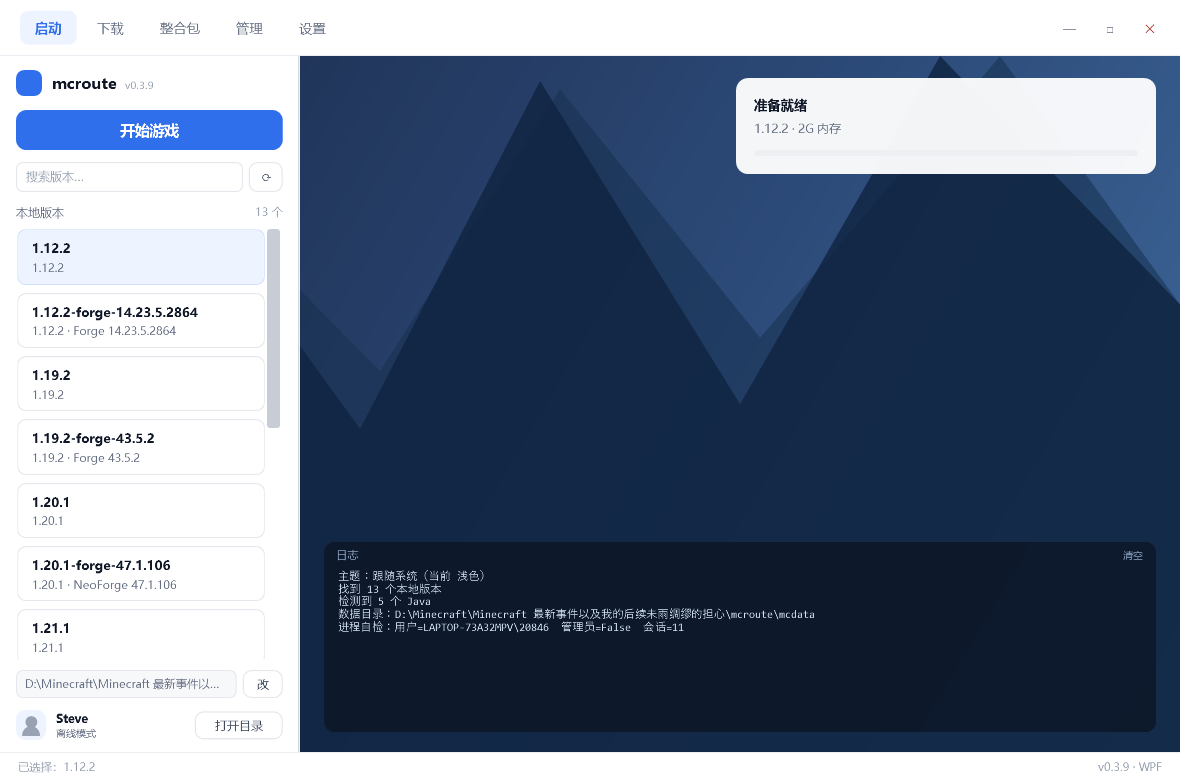
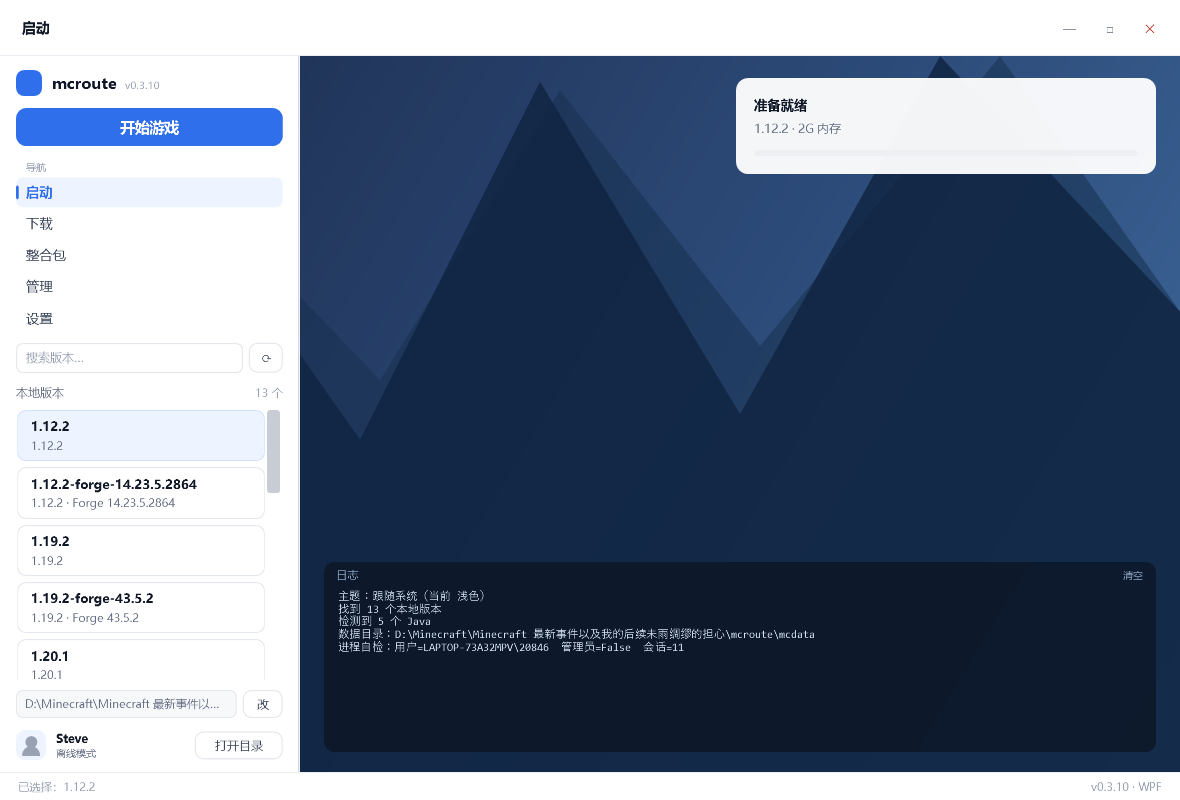
feat(wpf): move nav into sidebar (DSH-style, active indicator); page title in top bar; compact spacing; 0.3.10

diff --git a/csharp-wpf/MainWindow.xaml b/csharp-wpf/MainWindow.xaml
@@ -64,6 +64,39 @@
             </Setter>
         </Style>
 
+        <Style x:Key="SideNav" TargetType="RadioButton">
+            <Setter Property="Foreground" Value="{DynamicResource TextSub}"/>
+            <Setter Property="FontSize" Value="13"/>
+            <Setter Property="Cursor" Value="Hand"/>
+            <Setter Property="Height" Value="30"/>
+            <Setter Property="HorizontalContentAlignment" Value="Left"/>
+            <Setter Property="Template">
+                <Setter.Value>
+                    <ControlTemplate TargetType="RadioButton">
+                        <Border x:Name="bd" CornerRadius="7" Background="Transparent" Padding="10,0">
+                            <Grid>
+                                <Border x:Name="bar" Width="3" Height="14" CornerRadius="2"
+                                        HorizontalAlignment="Left" Margin="-10,0,0,0"
+                                        Background="Transparent"/>
+                                <ContentPresenter VerticalAlignment="Center"/>
+                            </Grid>
+                        </Border>
+                        <ControlTemplate.Triggers>
+                            <Trigger Property="IsMouseOver" Value="True">
+                                <Setter TargetName="bd" Property="Background" Value="{DynamicResource Hover}"/>
+                            </Trigger>
+                            <Trigger Property="IsChecked" Value="True">
+                                <Setter TargetName="bd" Property="Background" Value="{DynamicResource PrimaryDim}"/>
+                                <Setter TargetName="bar" Property="Background" Value="{DynamicResource Primary}"/>
+                                <Setter Property="Foreground" Value="{DynamicResource Primary}"/>
+                                <Setter Property="FontWeight" Value="SemiBold"/>
+                            </Trigger>
+                        </ControlTemplate.Triggers>
+                    </ControlTemplate>
+                </Setter.Value>
+            </Setter>
+        </Style>
+
         <Style x:Key="PrimaryButton" TargetType="Button">
             <Setter Property="Height" Value="46"/>
             <Setter Property="Foreground" Value="White"/>
@@ -115,13 +148,13 @@
         </Style>
 
         <Style x:Key="VersionItem" TargetType="ListBoxItem">
-            <Setter Property="Margin" Value="0,0,0,8"/>
+            <Setter Property="Margin" Value="0,0,0,6"/>
             <Setter Property="Cursor" Value="Hand"/>
             <Setter Property="HorizontalContentAlignment" Value="Stretch"/>
             <Setter Property="Template">
                 <Setter.Value>
                     <ControlTemplate TargetType="ListBoxItem">
-                        <Border x:Name="bd" CornerRadius="8" Padding="13,9"
+                        <Border x:Name="bd" CornerRadius="8" Padding="12,7"
                                 Background="{DynamicResource Surface}"
                                 BorderBrush="{DynamicResource Border}" BorderThickness="1">
                             <ContentPresenter/>
@@ -373,19 +406,8 @@
                 <ColumnDefinition Width="Auto"/>
             </Grid.ColumnDefinitions>
 
-            <StackPanel Grid.Column="1" Orientation="Horizontal" Margin="20,0,0,0" VerticalAlignment="Center"
-                        shell:WindowChrome.IsHitTestVisibleInChrome="True">
-                <RadioButton x:Name="NavLaunch" Style="{StaticResource NavItem}" Content="启动" IsChecked="True"
-                             GroupName="nav" Checked="Nav_Checked"/>
-                <RadioButton x:Name="NavDownload" Style="{StaticResource NavItem}" Content="下载"
-                             GroupName="nav" Margin="6,0,0,0" Checked="Nav_Checked"/>
-                <RadioButton x:Name="NavPacks" Style="{StaticResource NavItem}" Content="整合包"
-                             GroupName="nav" Margin="6,0,0,0" Checked="Nav_Checked"/>
-                <RadioButton x:Name="NavManage" Style="{StaticResource NavItem}" Content="管理"
-                             GroupName="nav" Margin="6,0,0,0" Checked="Nav_Checked"/>
-                <RadioButton x:Name="NavSettings" Style="{StaticResource NavItem}" Content="设置"
-                             GroupName="nav" Margin="6,0,0,0" Checked="Nav_Checked"/>
-            </StackPanel>
+            <TextBlock x:Name="PageTitle" Grid.Column="1" Text="启动" FontSize="14" FontWeight="SemiBold"
+                       Foreground="{DynamicResource Text}" Margin="22,0,0,0" VerticalAlignment="Center"/>
 
             <StackPanel Grid.Column="2" Orientation="Horizontal" VerticalAlignment="Center" Margin="0,0,10,0"
                         shell:WindowChrome.IsHitTestVisibleInChrome="True">
@@ -441,12 +463,12 @@
                     BorderBrush="{DynamicResource Hairline}" BorderThickness="0,0,1,0">
                 <Grid Margin="16,14,16,12">
                     <Grid.RowDefinitions>
-                        <RowDefinition Height="Auto"/>
-                        <RowDefinition Height="Auto"/>
-                        <RowDefinition Height="Auto"/>
-                        <RowDefinition Height="*"/>
-                        <RowDefinition Height="Auto"/>
-                        <RowDefinition Height="Auto"/>
+                        <RowDefinition Height="Auto"/>   <!-- 品牌 -->
+                        <RowDefinition Height="Auto"/>   <!-- 主按钮 -->
+                        <RowDefinition Height="Auto"/>   <!-- 导航 -->
+                        <RowDefinition Height="*"/>      <!-- 搜索 + 版本列表 -->
+                        <RowDefinition Height="Auto"/>   <!-- 数据目录 -->
+                        <RowDefinition Height="Auto"/>   <!-- 底部账号 -->
                     </Grid.RowDefinitions>
 
                     <!-- 品牌 -->
@@ -460,41 +482,59 @@
 
                     <!-- 主按钮 -->
                     <Button x:Name="PlayButton" Grid.Row="1" Style="{StaticResource PrimaryButton}"
-                            Content="开始游戏" Height="40" Margin="0,14,0,0" Click="Play_Click"/>
+                            Content="开始游戏" Height="38" Margin="0,12,0,0" Click="Play_Click"/>
 
-                    <!-- 搜索 + 刷新 -->
-                    <Grid Grid.Row="2" Margin="0,12,0,0">
-                        <Grid.ColumnDefinitions>
-                            <ColumnDefinition Width="*"/>
-                            <ColumnDefinition Width="Auto"/>
-                        </Grid.ColumnDefinitions>
-                        <Grid Grid.Column="0">
-                            <TextBox x:Name="VersionSearch" Height="30" TextChanged="VersionSearch_TextChanged"/>
-                            <TextBlock x:Name="SearchHint" Text="搜索版本…" FontSize="12"
-                                       Foreground="{DynamicResource TextFaint}" Margin="10,0,0,0"
-                                       VerticalAlignment="Center" IsHitTestVisible="False"/>
-                        </Grid>
-                        <Button Grid.Column="1" Style="{StaticResource GhostButton}" Content="⟳" Width="34" Height="30"
-                                Margin="6,0,0,0" ToolTip="刷新版本列表" Click="Refresh_Click"/>
-                    </Grid>
+                    <!-- 导航 -->
+                    <StackPanel Grid.Row="2" Margin="0,14,0,0">
+                        <TextBlock Text="导航" FontSize="10" Foreground="{DynamicResource TextFaint}"
+                                   Margin="10,0,0,4"/>
+                        <RadioButton x:Name="NavLaunch" Style="{StaticResource SideNav}" Content="启动"
+                                     GroupName="nav" IsChecked="True" Checked="Nav_Checked"/>
+                        <RadioButton x:Name="NavDownload" Style="{StaticResource SideNav}" Content="下载"
+                                     GroupName="nav" Margin="0,1,0,0" Checked="Nav_Checked"/>
+                        <RadioButton x:Name="NavPacks" Style="{StaticResource SideNav}" Content="整合包"
+                                     GroupName="nav" Margin="0,1,0,0" Checked="Nav_Checked"/>
+                        <RadioButton x:Name="NavManage" Style="{StaticResource SideNav}" Content="管理"
+                                     GroupName="nav" Margin="0,1,0,0" Checked="Nav_Checked"/>
+                        <RadioButton x:Name="NavSettings" Style="{StaticResource SideNav}" Content="设置"
+                                     GroupName="nav" Margin="0,1,0,0" Checked="Nav_Checked"/>
+                    </StackPanel>
 
-                    <!-- 版本列表 -->
-                    <Grid Grid.Row="3" Margin="0,12,0,0">
+                    <!-- 搜索 + 版本列表 -->
+                    <Grid Grid.Row="3" Margin="0,10,0,0">
                         <Grid.RowDefinitions>
+                            <RowDefinition Height="Auto"/>
                             <RowDefinition Height="Auto"/>
                             <RowDefinition Height="*"/>
                         </Grid.RowDefinitions>
-                        <Grid Grid.Row="0" Margin="0,0,0,8">
+
+                        <Grid Grid.Row="0">
+                            <Grid.ColumnDefinitions>
+                                <ColumnDefinition Width="*"/>
+                                <ColumnDefinition Width="Auto"/>
+                            </Grid.ColumnDefinitions>
+                            <Grid Grid.Column="0">
+                                <TextBox x:Name="VersionSearch" Height="30" TextChanged="VersionSearch_TextChanged"/>
+                                <TextBlock x:Name="SearchHint" Text="搜索版本…" FontSize="12"
+                                           Foreground="{DynamicResource TextFaint}" Margin="10,0,0,0"
+                                           VerticalAlignment="Center" IsHitTestVisible="False"/>
+                            </Grid>
+                            <Button Grid.Column="1" Style="{StaticResource GhostButton}" Content="⟳" Width="34" Height="30"
+                                    Margin="6,0,0,0" ToolTip="刷新版本列表" Click="Refresh_Click"/>
+                        </Grid>
+
+                        <Grid Grid.Row="1" Margin="0,12,0,8">
                             <TextBlock Text="本地版本" Style="{StaticResource FieldLabel}" Margin="0"/>
                             <TextBlock x:Name="VersionCount" Text="" FontSize="11" Foreground="{DynamicResource TextFaint}"
                                        HorizontalAlignment="Right"/>
                         </Grid>
-                        <ListBox x:Name="VersionList" Grid.Row="1" Style="{StaticResource PlainListBox}"
+
+                        <ListBox x:Name="VersionList" Grid.Row="2" Style="{StaticResource PlainListBox}"
                                  SelectionChanged="VersionList_SelectionChanged"
                                  ScrollViewer.VerticalScrollBarVisibility="Auto"/>
                     </Grid>
 
-                    <!-- 数据目录（紧凑一行） -->
+                    <!-- 数据目录 -->
                     <Grid Grid.Row="4" Margin="0,10,0,0">
                         <Grid.ColumnDefinitions>
                             <ColumnDefinition Width="*"/>

diff --git a/csharp-wpf/MainWindow.xaml.cs b/csharp-wpf/MainWindow.xaml.cs
@@ -261,6 +261,7 @@ namespace Mcroute.Wpf
             }
 
             _page = name == "启动" ? 0 : name == "下载" ? 1 : name == "整合包" ? 2 : name == "管理" ? 3 : 4;
+            if (PageTitle != null) PageTitle.Text = name;
             StatusText.Text = "就绪 · " + name + " 页";
         }
 

diff --git a/README.md b/README.md
@@ -360,7 +360,7 @@ NeoForge 的 `BootstrapLauncher` 会把部分库放进 JVM 的 module path，同
 
 ## 界面重构（WPF）
 
-`csharp-wpf/` 是新界面：无边框窗口 + 顶部导航 + **DSH 风格侧栏**（品牌行 / 置顶「开始游戏」/ 版本搜索 / 底部账号）+ 背景图 + 玻璃面板 + 卡片，
+`csharp-wpf/` 是新界面：无边框窗口 + **DSH 风格侧栏**（品牌行 / 置顶「开始游戏」/ 导航 / 版本搜索 / 底部账号）+ 背景图 + 玻璃面板 + 卡片，
 **复用 `csharp/` 下的全部 Core**（下载 / 加载器 / 整合包 / Java 一行没改，编译时链接进来）。
 
 已经接真实数据：本地版本列表、启动、下载原版、装加载器、装整合包、下 Java、数据目录切换、日志面板。
